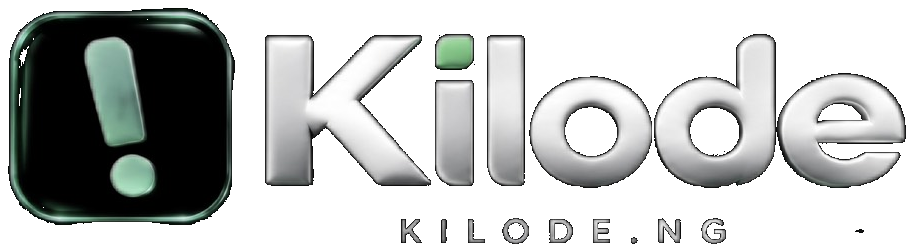
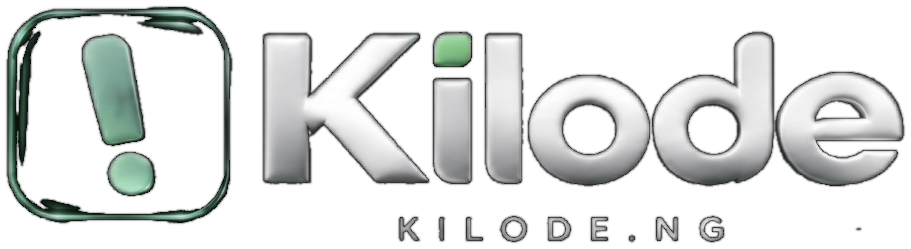
Clear the bang plate, shrink the lockup, auto-load this week's news
Transparent PNG, no black fill in the icon. Feeds now pulls this week's pictured stories on load so Super does not have to tap first.

diff --git a/src/lib/news-engine-server.ts b/src/lib/news-engine-server.ts
@@ -864,60 +864,58 @@ export const approveNewsDraft = createServerFn({ method: "POST" })
     return { ok: true as const, postId, post };
   });
 
-export const publishNewsWeek = createServerFn({ method: "POST" })
-  .middleware([authMiddleware])
-  .handler(async ({ context }) => {
-    await requireSuper(context.userId);
-    const filters: NewsFilters = { maxAgeHours: 168 };
-    const sources = memSources().filter((s) => s.enabled);
-    const seenLinks = new Set<string>();
-    const seenTitles = new Set<string>();
-    try {
-      const sql = await getSql();
-      const rows = await sql<{ link: string | null; title: string }>`select link, title from nf_posts order by ts desc limit 2000`;
-      for (const r of rows) {
-        if (r.link) seenLinks.add(r.link);
-        seenTitles.add(normTitle(r.title));
-      }
-    } catch {
-      /* empty db */
+async function ingestWeek(opts: { userId: string; limit: number; og: boolean }) {
+  const filters: NewsFilters = { maxAgeHours: 168 };
+  const sources = memSources().filter((s) => s.enabled);
+  const seenLinks = new Set<string>();
+  const seenTitles = new Set<string>();
+  try {
+    const sql = await getSql();
+    const rows = await sql<{ link: string | null; title: string }>`select link, title from nf_posts order by ts desc limit 2000`;
+    for (const r of rows) {
+      if (r.link) seenLinks.add(r.link);
+      seenTitles.add(normTitle(r.title));
     }
+  } catch {
+    /* empty db */
+  }
 
-    const packs = await Promise.allSettled(
-      sources.map(async (src) => {
-        const res = await fetch(src.url, {
-          headers: {
-            "User-Agent": "KilodeNewsEngine/1.0 (+https://kilode.ng; RSS reader)",
-            Accept: "application/rss+xml, application/xml, text/xml, */*",
-          },
-          signal: AbortSignal.timeout(12_000),
-        });
-        if (!res.ok) throw new Error(`${src.name}: HTTP ${res.status}`);
-        const xml = await res.text();
-        return { src, items: parseRss(xml, src.name).slice(0, 80) };
-      }),
-    );
+  const packs = await Promise.allSettled(
+    sources.map(async (src) => {
+      const res = await fetch(src.url, {
+        headers: {
+          "User-Agent": "KilodeNewsEngine/1.0 (+https://kilode.ng; RSS reader)",
+          Accept: "application/rss+xml, application/xml, text/xml, */*",
+        },
+        signal: AbortSignal.timeout(10_000),
+      });
+      if (!res.ok) throw new Error(`${src.name}: HTTP ${res.status}`);
+      const xml = await res.text();
+      return { src, items: parseRss(xml, src.name).slice(0, 80) };
+    }),
+  );
 
-    type Row = { src: NewsSource; item: RssItem };
-    const pool: Row[] = [];
-    const errors: string[] = [];
-    for (const p of packs) {
-      if (p.status === "rejected") {
-        errors.push(p.reason instanceof Error ? p.reason.message : "feed failed");
-        continue;
-      }
-      for (const item of p.value.items) {
-        if (!passesFilters(item, filters)) continue;
-        if (seenLinks.has(item.link)) continue;
-        const nt = normTitle(item.title);
-        if (seenTitles.has(nt)) continue;
-        seenLinks.add(item.link);
-        seenTitles.add(nt);
-        pool.push({ src: p.value.src, item });
-      }
+  type Row = { src: NewsSource; item: RssItem };
+  const pool: Row[] = [];
+  const errors: string[] = [];
+  for (const p of packs) {
+    if (p.status === "rejected") {
+      errors.push(p.reason instanceof Error ? p.reason.message : "feed failed");
+      continue;
     }
+    for (const item of p.value.items) {
+      if (!passesFilters(item, filters)) continue;
+      if (seenLinks.has(item.link)) continue;
+      const nt = normTitle(item.title);
+      if (seenTitles.has(nt)) continue;
+      seenLinks.add(item.link);
+      seenTitles.add(nt);
+      pool.push({ src: p.value.src, item });
+    }
+  }
 
-    const needPhoto = pool.filter((x) => !x.item.image).slice(0, 60);
+  if (opts.og) {
+    const needPhoto = pool.filter((x) => !x.item.image).slice(0, 40);
     for (let i = 0; i < needPhoto.length; i += 8) {
       const batch = needPhoto.slice(i, i + 8);
       const photos = await Promise.all(batch.map((x) => ogImage(x.item.link)));
@@ -925,51 +923,79 @@ export const publishNewsWeek = createServerFn({ method: "POST" })
         if (img) batch[j]!.item.image = img;
       });
     }
+  }
 
-    const ready = pool.filter((x) => x.item.image).slice(0, 500);
-    let published = 0;
-    const sql = await getSql();
-    for (const { src, item } of ready) {
-      const rewritten = humanizeDeterministic(item, src.name);
-      const postId = `news-${Date.now().toString(36)}-${Math.random().toString(36).slice(2, 7)}`;
-      const ts = item.pubDate && item.pubDate > Date.now() - 8 * 24 * 3_600_000 ? item.pubDate : Date.now();
-      const slug = slugify(rewritten.title) || postId;
-      const image = item.image || "";
-      const excerpt = rewritten.meta || rewritten.title.slice(0, 140);
+  const ready = pool.filter((x) => x.item.image).slice(0, opts.limit);
+  let published = 0;
+  const sql = await getSql();
+  for (const { src, item } of ready) {
+    const rewritten = humanizeDeterministic(item, src.name);
+    const postId = `news-${Date.now().toString(36)}-${Math.random().toString(36).slice(2, 7)}`;
+    const ts = item.pubDate && item.pubDate > Date.now() - 8 * 24 * 3_600_000 ? item.pubDate : Date.now();
+    const slug = slugify(rewritten.title) || postId;
+    const image = item.image || "";
+    const excerpt = rewritten.meta || rewritten.title.slice(0, 140);
+    try {
+      await sql`
+        insert into nf_posts (id, user_id, title, body, excerpt, category, tags, link, image, slug, status, author, ts, source_name)
+        values (
+          ${postId}, ${opts.userId}, ${rewritten.title}, ${rewritten.body}, ${excerpt},
+          ${rewritten.category}, ${rewritten.tags}, ${item.link}, ${image}, ${slug},
+          ${"publish"}, ${"KilodeDesk#01"}, ${ts}, ${src.name}
+        )
+      `;
+      published += 1;
+    } catch {
       try {
         await sql`
-          insert into nf_posts (id, user_id, title, body, excerpt, category, tags, link, image, slug, status, author, ts, source_name)
+          insert into nf_posts (id, user_id, title, body, excerpt, category, tags, link, image, slug, status, author, ts)
           values (
-            ${postId}, ${context.userId}, ${rewritten.title}, ${rewritten.body}, ${excerpt},
+            ${postId}, ${opts.userId}, ${rewritten.title}, ${rewritten.body}, ${excerpt},
             ${rewritten.category}, ${rewritten.tags}, ${item.link}, ${image}, ${slug},
-            ${"publish"}, ${"KilodeDesk#01"}, ${ts}, ${src.name}
+            ${"publish"}, ${"KilodeDesk#01"}, ${ts}
           )
         `;
         published += 1;
       } catch {
-        try {
-          await sql`
-            insert into nf_posts (id, user_id, title, body, excerpt, category, tags, link, image, slug, status, author, ts)
-            values (
-              ${postId}, ${context.userId}, ${rewritten.title}, ${rewritten.body}, ${excerpt},
-              ${rewritten.category}, ${rewritten.tags}, ${item.link}, ${image}, ${slug},
-              ${"publish"}, ${"KilodeDesk#01"}, ${ts}
-            )
-          `;
-          published += 1;
-        } catch {
-          /* skip dup */
-        }
+        /* skip dup */
       }
     }
+  }
 
-    return {
-      ok: true as const,
-      feeds: packs.filter((p) => p.status === "fulfilled").length,
-      candidates: pool.length,
-      withPhoto: ready.length,
-      published,
-      errors: errors.slice(0, 8),
-    };
+  return {
+    ok: true as const,
+    feeds: packs.filter((p) => p.status === "fulfilled").length,
+    candidates: pool.length,
+    withPhoto: ready.length,
+    published,
+    errors: errors.slice(0, 8),
+  };
+}
+
+export const publishNewsWeek = createServerFn({ method: "POST" })
+  .middleware([authMiddleware])
+  .handler(async ({ context }) => {
+    await requireSuper(context.userId);
+    return ingestWeek({ userId: context.userId, limit: 500, og: true });
   });
+
+export const warmNewsWeek = createServerFn({ method: "GET" }).handler(async () => {
+  const sql = await getSql();
+  try {
+    await sql`create table if not exists nf_market_cache (k text primary key, v text not null, ts bigint not null)`;
+    const n = await sql<{ n: string | number }>`select count(*) as n from nf_posts where status = ${"publish"}`;
+    const count = Number(n[0]?.n ?? 0);
+    if (count >= 140) return { ok: true as const, skipped: true as const, published: 0, n: count };
+    const lock = await sql<{ ts: string | number }>`select ts from nf_market_cache where k = ${"news-warm"} limit 1`;
+    if (lock[0] && Date.now() - Number(lock[0].ts) < 12 * 60_000) {
+      return { ok: true as const, skipped: true as const, published: 0, n: count };
+    }
+    await sql`insert into nf_market_cache (k, v, ts) values (${"news-warm"}, ${"1"}, ${Date.now()}) on conflict (k) do update set ts = ${Date.now()}`;
+    const r = await ingestWeek({ userId: "kilode-desk", limit: 120, og: false });
+    return { ...r, skipped: false as const, n: count + r.published };
+  } catch {
+    const r = await ingestWeek({ userId: "kilode-desk", limit: 80, og: false });
+    return { ...r, skipped: false as const, n: r.published };
+  }
+});
 

diff --git a/src/lib/use-qonvo.ts b/src/lib/use-qonvo.ts
@@ -20,6 +20,7 @@ import {
 } from "@/lib/qonvo-data";
 import { DEMO_ADS, DEMO_JOINS, DEMO_NOTES, DEMO_POSTS, DEMO_TRACKS, MORE_DEMO_ADS } from "@/lib/qonvo-seed";
 import { bumpView, getChatTtl, getProfile, joinTeamRow, listAds, listJoins, listMsgs, listMyAds, listPins, listPosts, listScores, listTeams, listTracks, pingPresence, purgeMsgs, reportPost, saveAdRow, saveComment, saveJoin, saveMsg, savePin, savePost, saveProfile, saveRx, saveTeam, saveTrack, sendMail } from "@/lib/forum-server";
+import { warmNewsWeek } from "@/lib/news-engine-server";
 import { listNotes } from "@/lib/social-server";
 import { hidePost as hidePostRow, setAdPlacement, setAdStatus, setAdWindow } from "@/lib/staff-server";
 import { useCurrentUserState } from "@/lib/auth/use-current-user";
@@ -172,7 +173,8 @@ export function useQonvo() {
     setReady(true);
     void Promise.all([listPosts(), listTracks(), listAds()])
       .then(([dbPosts, dbTracks, dbAds]) => {
-        if (dbPosts.length) {
+        const applyPosts = (dbPosts: Awaited<ReturnType<typeof listPosts>>) => {
+          if (!dbPosts.length) return;
           const mapped = dbPosts
             .filter((p): p is NonNullable<typeof p> => !!p && typeof (p as { id?: string }).id === "string")
             .map((p) => ({
@@ -191,6 +193,14 @@ export function useQonvo() {
             ...DEMO_POSTS.filter((d) => !!d?.id && !mapped.some((p) => p.id === d.id)),
             ...mapped,
           ]);
+        };
+        applyPosts(dbPosts);
+        if (dbPosts.length < 100) {
+          void warmNewsWeek()
+            .then((r) => {
+              if (r.published) return listPosts().then(applyPosts);
+            })
+            .catch(() => undefined);
         }
         if (dbTracks.length) {
           const mapped = dbTracks

diff --git a/src/components/qonvo-app.tsx b/src/components/qonvo-app.tsx
@@ -355,8 +355,8 @@ export function QonvoApp() {
               goHome();
             }}
           >
-            <img src="/kilode-logo-green.png" alt="Kilode" className="logo-night h-9 w-auto max-w-[156px] object-contain object-left sm:h-10 sm:max-w-[176px]" />
-            <img src="/kilode-logo-light.svg" alt="Kilode" className="logo-day hidden h-9 w-auto max-w-[156px] object-contain object-left sm:h-10 sm:max-w-[176px]" />
+            <img src="/kilode-logo-green.png" alt="Kilode" className="logo-night h-7 w-auto max-w-[128px] object-contain object-left sm:h-8 sm:max-w-[148px]" />
+            <img src="/kilode-logo-light.svg" alt="Kilode" className="logo-day hidden h-7 w-auto max-w-[128px] object-contain object-left sm:h-8 sm:max-w-[148px]" />
           </button>
           <nav className="mx-auto hidden min-w-0 items-center justify-center gap-1 md:flex">
             <HomeTab label="Feeds" on={homeTab === "feeds" && screen === "home" && !marketDesk} onClick={() => { store.setOpenPost(null); setMarketDesk(null); setHomeTab("feeds"); setScreen("home"); setMenuOpen(false); }} />
